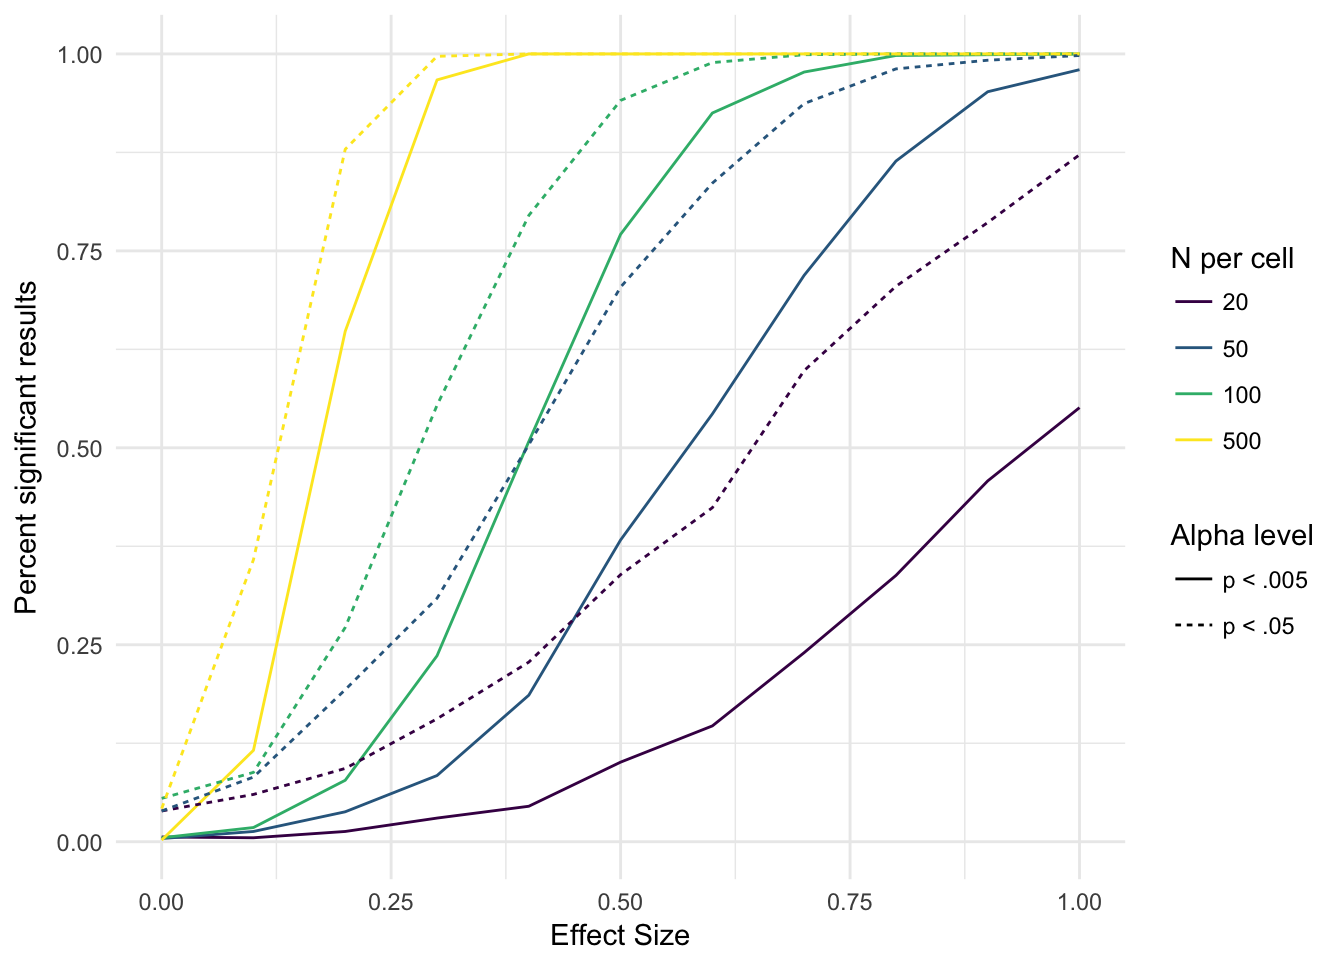
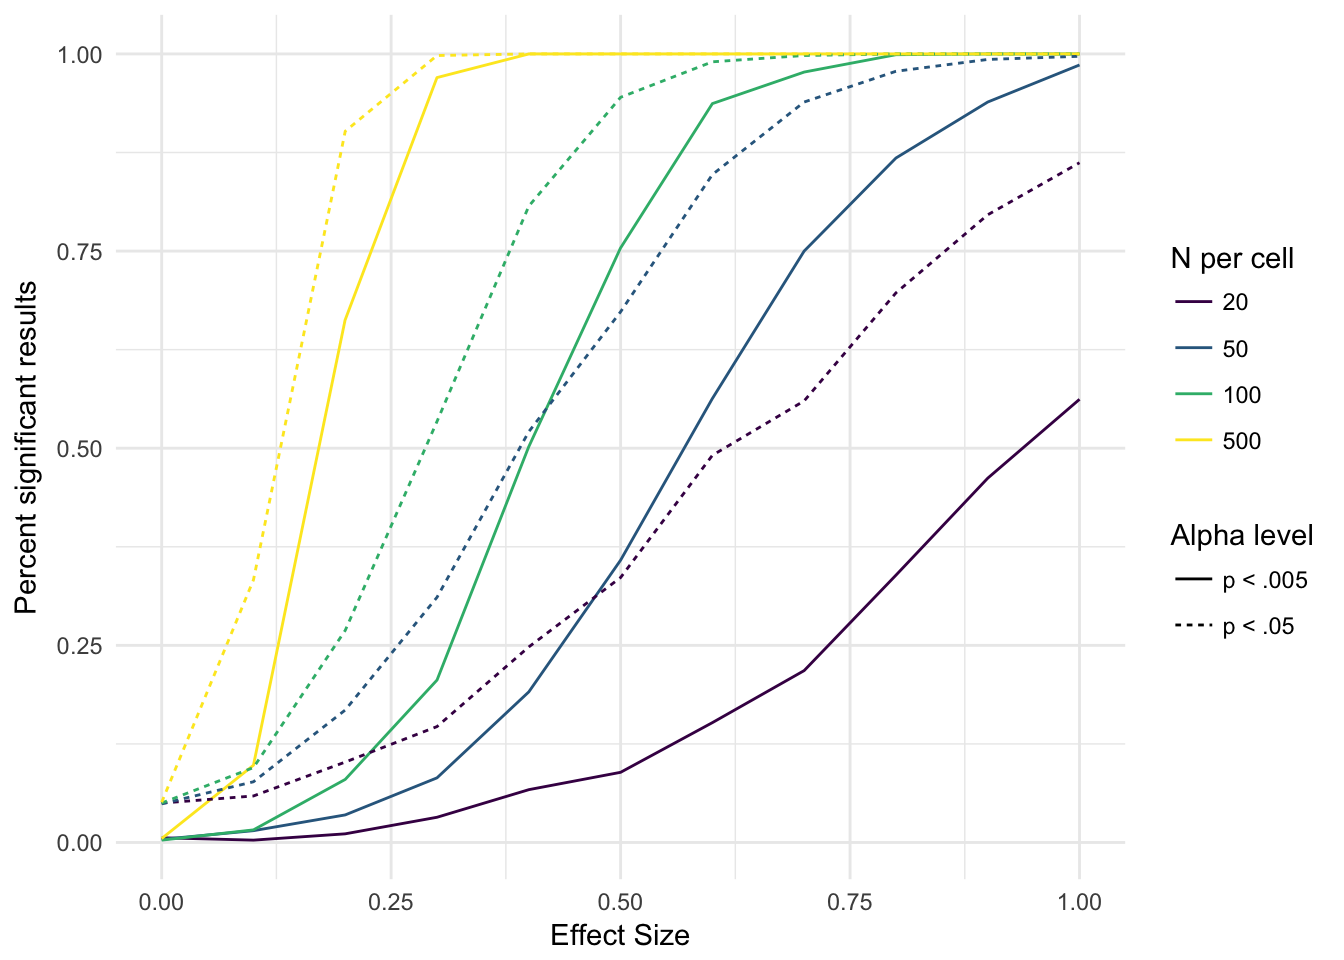
Site rebuild Wed Jul 26 22:26:03 PDT 2017

diff --git a/post/new_sig/index.html b/post/new_sig/index.html
@@ -223,29 +223,16 @@
 <h1>What does this actually look like?</h1>
 <p>I’ve done some simulations looking at p-hacking, etc. with the <span class="math inline">\(p &lt; .05\)</span> significance level. It’s helped me develop some intuitions, but I’m curious about the new significance level. I’d like to get to know it a little better.</p>
 <p>So, I’m going to do some simulating. First, I want to look at how many significant results you’ll get at various effect sizes at various sample sizes. I’m going to simulate the plain old t-test because, hey, it’s just a first date.</p>
-<p>Also, yes, I’m loading 5 packages to make one graph.</p>
-<pre class="r"><code>library(data.table)
-library(dplyr)</code></pre>
-<pre><code>## -------------------------------------------------------------------------</code></pre>
-<pre><code>## data.table + dplyr code now lives in dtplyr.
-## Please library(dtplyr)!</code></pre>
-<pre><code>## -------------------------------------------------------------------------</code></pre>
-<pre><code>## 
-## Attaching package: &#39;dplyr&#39;</code></pre>
-<pre><code>## The following objects are masked from &#39;package:data.table&#39;:
-## 
-##     between, first, last</code></pre>
-<pre><code>## The following objects are masked from &#39;package:stats&#39;:
-## 
-##     filter, lag</code></pre>
-<pre><code>## The following objects are masked from &#39;package:base&#39;:
-## 
-##     intersect, setdiff, setequal, union</code></pre>
-<pre class="r"><code>library(ggplot2)
-library(tidyr)
-library(viridis)</code></pre>
-<pre><code>## Loading required package: viridisLite</code></pre>
-<pre class="r"><code> sim.es &lt;- function(n, es) {
+<p>I want to see how “hits” (getting a value below the significance threshold when there is a real effect, aka power) varies with sample size and effect size between the two cutoffs.</p>
+<pre class="r"><code>suppressPackageStartupMessages({
+  library(data.table)
+  library(dplyr)
+  library(ggplot2)
+  library(tidyr)
+  library(viridis)
+})
+
+ sim.es &lt;- function(n, es) {
     g1 &lt;- rnorm(n, es, 1)
     g2 &lt;- rnorm(n, 0, 1)
     c(&#39;p&#39;=t.test(g1, g2, paired=FALSE)$p.value, &#39;n&#39;=n, &#39;es&#39;=es)
@@ -269,14 +256,14 @@ sim_graph &lt;- ggplot(data=simulation_results %&gt;%
   theme_minimal()
 sim_graph</code></pre>
 <p><img src="/post/new_sig_files/figure-html/unnamed-chunk-1-1.png" width="672" /></p>
-<p>This graph doesn’t match up perfectly with what I would have thought. The difference is pretty substantial at the lower sample sizes, but there’s not as stark a difference at the larger sample sizes.</p>
+<p>So, yeah. Even at a big effect size, you’re not getting away with 20 per cell under the .005 threshold. Even 50 per cell is pretty lean unless you’re hunting a big effect.</p>
 </div>
 <div id="so" class="section level1">
 <h1>So…</h1>
 <p>If nothing else, you’ve got to hand it to this paper for sparking a diverse and extensive discussion about where the field is now, and how best to encourage the changes that will make our science more robust.</p>
 <p>I know you’re waiting with bated breath to hear my personal opinion on this. Call me an ideological slouch, but after reading the paper, and reading the arguments for and against, I remain solidly middle-ground. I think it’s true that changing this threshold wouldn’t change much; it doesn’t fix NHST or dichotomous, significance-based thinking. Many of the old problems would persist under the new world order. On the other hand, I don’t think this proposal is actively harmful (although others would vehemently disagree with me on that point), and I think it would even help a bit in terms of going to the mat for more power and higher standards of evidence.</p>
 <p>This is definitely not the Thing That Will Save Psych Forever, and the authors don’t claim that it is. But I think it’s an interesting idea that has potential benefits, and merits consideration. It should also make us think about the strength of evidence we want to see, and how we should go about trying to effect that change in the field. Requiring a stricter cutoff is certainly a place to start.</p>
-<p>If you’re interested in following this discussion, there’s a lot of it on Twitter. People are also getting into the mathematics behind the Bayesian perspective on p-values, prior probabilities, and so on; it’s worth a look if you’re interested.</p>
+<p>If you’re interested in following this discussion, there’s a lot of it on Twitter. People are also getting into the mathematics behind the Bayesian perspective on p-values, prior probabilities, and so on; it’s worth a look if you’re interested. If this paper accomplishes nothing else, it’s sparked some interesting discussions.</p>
 </div>
 
     </div>
